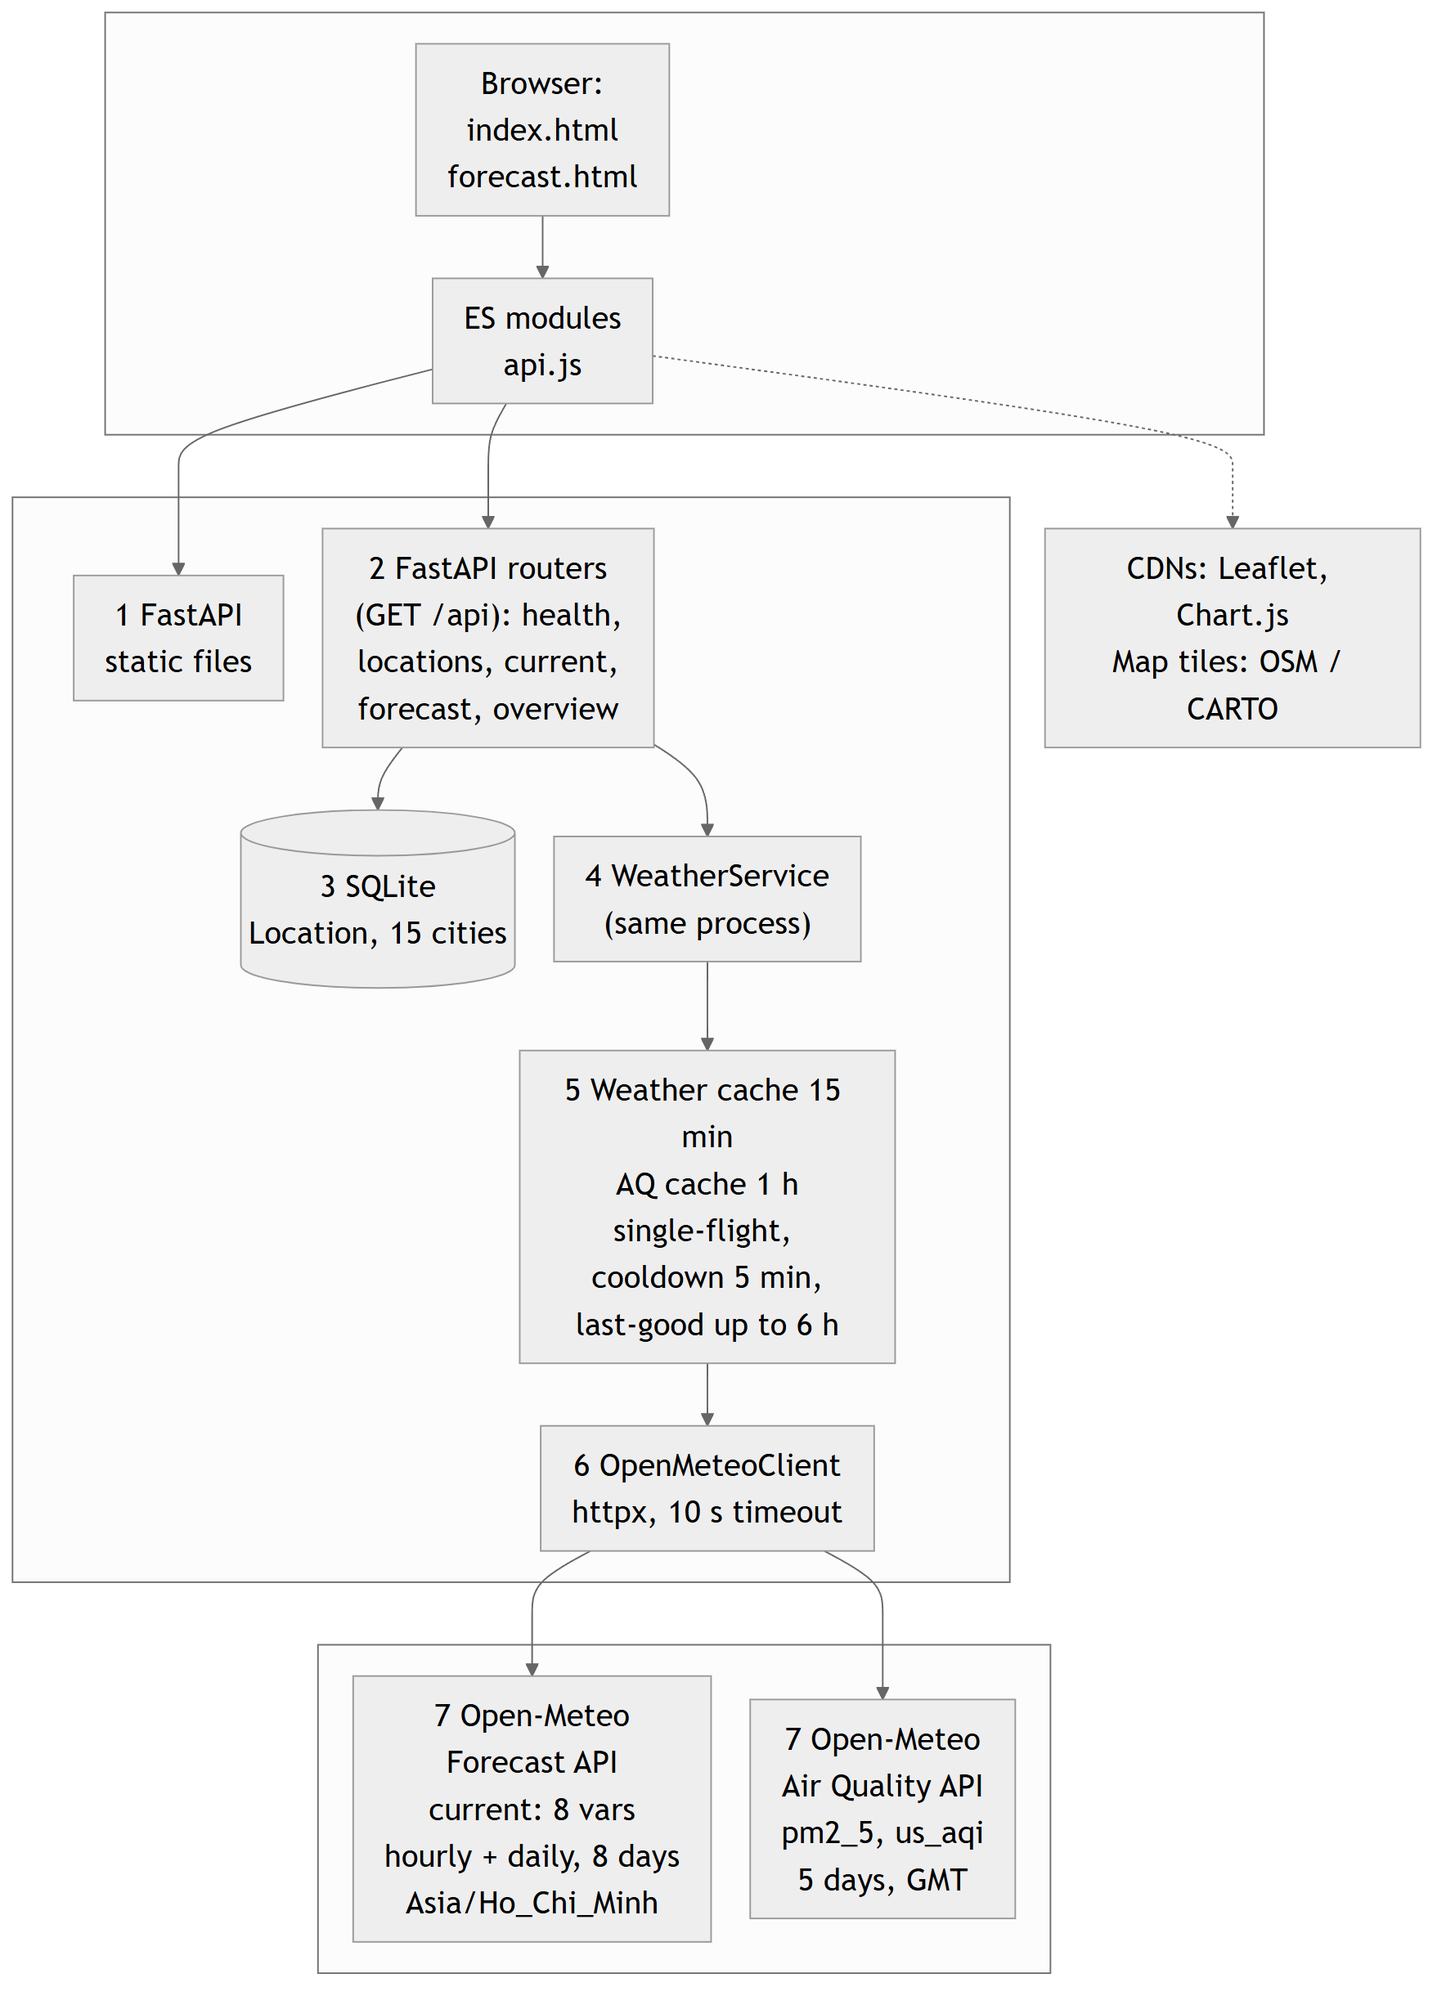
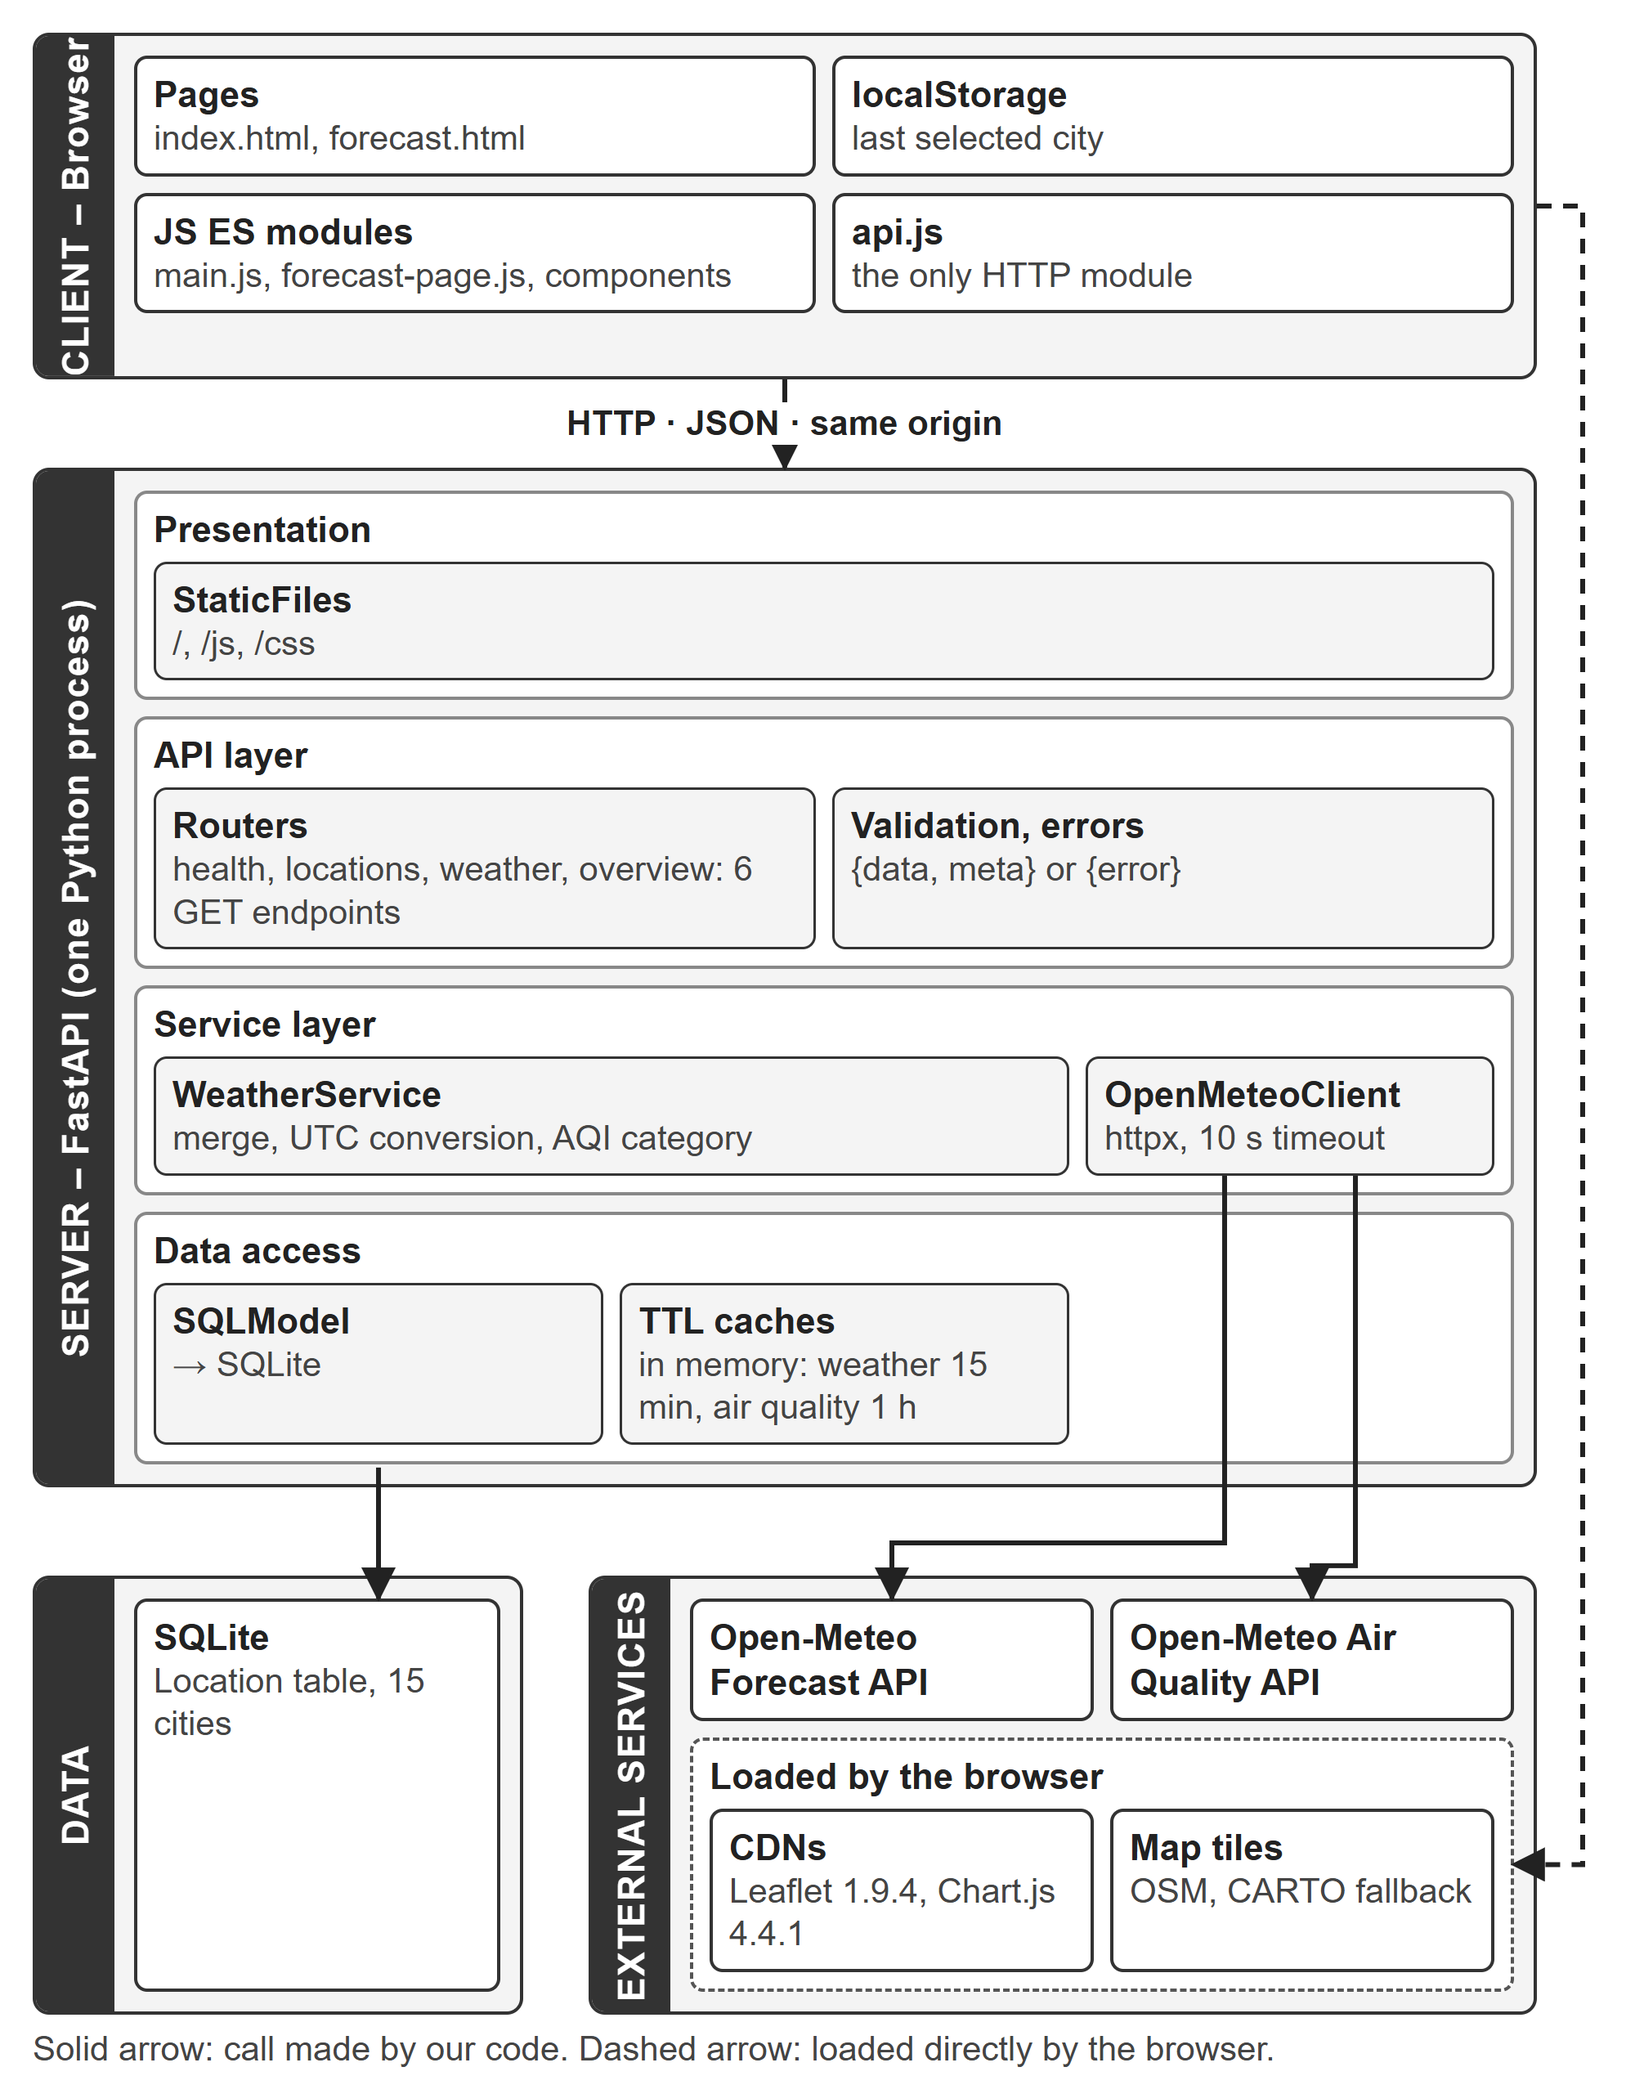
Refactor code structure for improved readability and maintainability

Changed region(s): [[0.0, 0.0, 0.9955, 0.9918], [0.871, 0.062, 0.9644, 0.186]]

diff --git a/environmental-system/docs/diagrams/system-architecture.html b/environmental-system/docs/diagrams/system-architecture.html
@@ -1,0 +1,157 @@
+<!DOCTYPE html>
+<!-- Layered architecture for report section 2.3 (Figure 3a).
+     Render: chrome --headless=new --screenshot=docs/images/system-architecture.png --window-size=1000,<height> --force-device-scale-factor=2 --hide-scrollbars file:///.../system-architecture.html
+     The page is 1000 CSS px wide and every text is >= 21 px, so it prints at >= 10 pt on a 16 cm wide figure.
+     Arrows are drawn by the script at the end from element positions. -->
+<html lang="en">
+<head>
+<meta charset="utf-8">
+<title>System architecture</title>
+<style>
+  * { box-sizing: border-box; }
+  body { margin: 0; width: 1000px; background: #fff; color: #222; font: 22px/1.25 Arial, Helvetica, sans-serif; position: relative; }
+  #fig { padding: 20px 60px 8px 20px; position: relative; }
+  .band { display: flex; border: 2px solid #333; border-radius: 10px; background: #f4f4f4; overflow: hidden; }
+  .strip { flex: 0 0 48px; background: #333; color: #fff; font-weight: bold; font-size: 22px; letter-spacing: 1px;
+           writing-mode: vertical-rl; transform: rotate(180deg); text-align: center; display: flex; align-items: center; justify-content: center; white-space: nowrap; }
+  .body { flex: 1; padding: 12px; display: flex; flex-direction: column; gap: 10px; min-width: 0; }
+  .row { display: flex; gap: 10px; }
+  .box { flex: 1; border: 2px solid #333; border-radius: 8px; background: #fff; padding: 8px 10px; min-width: 0; }
+  .box b { display: block; font-size: 22px; }
+  .box span { display: block; font-size: 21px; color: #444; }
+  .layer { border: 2px solid #888; border-radius: 8px; background: #fff; padding: 8px 10px 10px; }
+  .layer > h3 { margin: 0 0 6px; font-size: 22px; }
+  .layer .box { background: #f4f4f4; border-width: 1.5px; }
+  .group { border: 2px dashed #555; border-radius: 8px; background: #fff; padding: 8px 10px 10px; }
+  .group > h3 { margin: 0 0 6px; font-size: 22px; }
+  .gap { height: 54px; }
+  .cols { display: flex; gap: 40px; align-items: stretch; }
+  #data { flex: 0 0 300px; }
+  #ext { flex: 1; min-width: 0; }
+  #legend { margin-top: 8px; font-size: 21px; color: #444; }
+  svg#arrows { position: absolute; left: 0; top: 0; pointer-events: none; overflow: visible; }
+  .lbl { position: absolute; background: #fff; font-size: 21px; padding: 0 8px; font-weight: bold; color: #222; }
+</style>
+</head>
+<body>
+<div id="fig">
+
+  <div class="band" id="client">
+    <div class="strip">CLIENT – Browser</div>
+    <div class="body">
+      <div class="row">
+        <div class="box"><b>Pages</b><span>index.html, forecast.html</span></div>
+        <div class="box"><b>localStorage</b><span>last selected city</span></div>
+      </div>
+      <div class="row">
+        <div class="box"><b>JS ES modules</b><span>main.js, forecast-page.js, components</span></div>
+        <div class="box" id="apijs"><b>api.js</b><span>the only HTTP module</span></div>
+      </div>
+    </div>
+  </div>
+
+  <div class="gap" id="gap1"></div>
+
+  <div class="band" id="server">
+    <div class="strip">SERVER – FastAPI (one Python process)</div>
+    <div class="body">
+      <div class="layer" id="l-pres">
+        <h3>Presentation</h3>
+        <div class="row"><div class="box" id="static"><b>StaticFiles</b><span>/, /js, /css</span></div></div>
+      </div>
+      <div class="layer" id="l-api">
+        <h3>API layer</h3>
+        <div class="row">
+          <div class="box" id="routers"><b>Routers</b><span>health, locations, weather, overview: 6 GET endpoints</span></div>
+          <div class="box"><b>Validation, errors</b><span>{data, meta} or {error}</span></div>
+        </div>
+      </div>
+      <div class="layer" id="l-svc">
+        <h3>Service layer</h3>
+        <div class="row">
+          <div class="box" id="wsvc"><b>WeatherService</b><span>merge, UTC conversion, AQI category</span></div>
+          <div class="box" id="omc" style="flex:0 0 250px"><b>OpenMeteoClient</b><span>httpx, 10 s timeout</span></div>
+        </div>
+      </div>
+      <div class="layer" id="l-data">
+        <h3>Data access</h3>
+        <div class="row">
+          <div class="box" id="sqlmodel"><b>SQLModel</b><span>→ SQLite</span></div>
+          <div class="box" id="caches"><b>TTL caches</b><span>in memory: weather 15 min, air quality 1 h</span></div>
+          <div style="flex:0 0 250px"></div>
+        </div>
+      </div>
+    </div>
+  </div>
+
+  <div class="gap" id="gap2"></div>
+
+  <div class="cols">
+    <div class="band" id="data">
+      <div class="strip">DATA</div>
+      <div class="body">
+        <div class="box" id="sqlite"><b>SQLite</b><span>Location table, 15 cities</span></div>
+      </div>
+    </div>
+    <div class="band" id="ext">
+      <div class="strip">EXTERNAL SERVICES</div>
+      <div class="body">
+        <div class="row">
+          <div class="box" id="fc"><b>Open-Meteo Forecast API</b></div>
+          <div class="box" id="aq"><b>Open-Meteo Air Quality API</b></div>
+        </div>
+        <div class="group" id="cdn">
+          <h3>Loaded by the browser</h3>
+          <div class="row">
+            <div class="box"><b>CDNs</b><span>Leaflet 1.9.4, Chart.js 4.4.1</span></div>
+            <div class="box"><b>Map tiles</b><span>OSM, CARTO fallback</span></div>
+          </div>
+        </div>
+      </div>
+    </div>
+  </div>
+
+  <div id="legend">Solid arrow: call made by our code. Dashed arrow: loaded directly by the browser.</div>
+</div>
+
+<svg id="arrows" xmlns="http://www.w3.org/2000/svg">
+  <defs>
+    <marker id="ah" viewBox="0 0 10 10" refX="9" refY="5" markerWidth="7" markerHeight="7" orient="auto-start-reverse"><path d="M0,0 L10,5 L0,10 z" fill="#222"/></marker>
+  </defs>
+</svg>
+
+<script>
+  const $ = id => document.getElementById(id);
+  const rect = id => { const r = $(id).getBoundingClientRect(); return { l: r.left, r: r.right, t: r.top + scrollY, b: r.bottom + scrollY, cx: (r.left + r.right) / 2, cy: (r.top + r.bottom) / 2 + scrollY }; };
+  const svg = $("arrows");
+  function path(d, dashed) {
+    const p = document.createElementNS("http://www.w3.org/2000/svg", "path");
+    p.setAttribute("d", d); p.setAttribute("fill", "none"); p.setAttribute("stroke", "#222"); p.setAttribute("stroke-width", "3");
+    if (dashed) p.setAttribute("stroke-dasharray", "9 7");
+    p.setAttribute("marker-end", "url(#ah)");
+    svg.appendChild(p);
+  }
+  function label(text, x, y) {
+    const d = document.createElement("div"); d.className = "lbl"; d.textContent = text;
+    document.body.appendChild(d);
+    d.style.left = (x - d.offsetWidth / 2) + "px"; d.style.top = (y - d.offsetHeight / 2) + "px";
+  }
+  const c = rect("client"), s = rect("server"), g1 = rect("gap1");
+  // client -> server
+  path(`M${c.cx},${c.b} L${c.cx},${s.t}`);
+  label("HTTP · JSON · same origin", c.cx, g1.cy);
+  // SQLModel -> SQLite (straight down)
+  const sm = rect("sqlmodel"), sq = rect("sqlite");
+  path(`M${sm.cx},${sm.b + 14} L${sm.cx},${sq.t}`);
+  // OpenMeteoClient -> forecast / air quality APIs
+  const om = rect("omc"), fc = rect("fc"), aq = rect("aq"), mid = s.b + (sq.t - s.b) / 2;
+  const x1 = om.cx - 40, x2 = om.cx + 40;
+  path(`M${x1},${om.b} L${x1},${mid} L${fc.cx},${mid} L${fc.cx},${fc.t}`);
+  path(`M${x2},${om.b} L${x2},${mid + 14} L${aq.cx},${mid + 14} L${aq.cx},${aq.t}`);
+  // browser -> CDNs and tiles (dashed, along the right margin)
+  const cl = $("client").getBoundingClientRect(), cd = rect("cdn"), lane = cl.right + 28;
+  path(`M${cl.right},${c.cy} L${lane},${c.cy} L${lane},${cd.cy} L${cd.r},${cd.cy}`, true);
+  document.title = String(Math.ceil(document.documentElement.scrollHeight));
+</script>
+</body>
+</html>

diff --git a/environmental-system/docs/Architecture.md b/environmental-system/docs/Architecture.md
@@ -1,10 +1,29 @@
 # 2.3 System architecture
 
-**Figure caption:** System architecture of the Weather & AQI dashboard (client, FastAPI server, third-party data source).
+**Figure 3a caption:** Layered architecture of the Weather & AQI dashboard (client, FastAPI server, data and external services).
 
 ![System architecture](images/system-architecture.png)
 
-Source: [`diagrams/system-architecture.mmd`](diagrams/system-architecture.mmd) (Mermaid). To re-render, paste it into <https://mermaid.live> or run `npx -y @mermaid-js/mermaid-cli@11.4.2 -i docs/diagrams/system-architecture.mmd -o docs/images/system-architecture.png -w 900 -s 2 -b white`. The figure is a vertical (top-to-bottom) flowchart so that it stays readable at A4 text width; the theme and font size are set inside the `.mmd` file.
+**Figure 3b caption:** Sequence of `GET /api/locations/{id}/current`, including the caches, the air-quality cooldown and the last-good fallback.
+
+![Request sequence](images/request-sequence.png)
+
+Sources: [`diagrams/system-architecture.html`](diagrams/system-architecture.html) (hand-made HTML/CSS, Figure 3a) and [`diagrams/request-sequence.mmd`](diagrams/request-sequence.mmd) (Mermaid, Figure 3b).
+
+To re-render, from `environmental-system`:
+- Figure 3a: `chrome --headless=new --screenshot=docs/images/system-architecture.png --window-size=1000,1275 --force-device-scale-factor=2 --hide-scrollbars file:///<path>/docs/diagrams/system-architecture.html`
+- Figure 3b: `npx -y @mermaid-js/mermaid-cli@11.4.2 -i docs/diagrams/request-sequence.mmd -o docs/images/request-sequence.png -w 1600 -s 2 -b white`
+
+## Layers (Figure 3a)
+
+- **Client (browser):** `index.html` and `forecast.html`, JavaScript ES modules (`main.js`, `forecast-page.js` and the components), `api.js` as the only HTTP module, and `localStorage` for the last selected city.
+- **Server (FastAPI, one Python process):**
+  - Presentation: `StaticFiles` serves `/`, `/js` and `/css`.
+  - API layer: routers (health, locations, weather, overview) with 6 GET endpoints, input validation and error handlers returning `{data, meta}` or `{error}`.
+  - Service layer: `WeatherService` (merge, UTC conversion, AQI category) and `OpenMeteoClient` (httpx, 10 s timeout).
+  - Data access: SQLModel on SQLite, and in-memory TTL caches (weather 15 minutes, air quality 1 hour).
+- **Data:** SQLite with the `Location` table (15 cities).
+- **External services:** Open-Meteo Forecast API and Air Quality API (called by `OpenMeteoClient`), and the CDNs (Leaflet 1.9.4, Chart.js 4.4.1) and map tiles (OpenStreetMap, CARTO fallback), which the browser loads directly.
 
 ## Client–server model
 
@@ -21,24 +40,22 @@ The application is a classic client–server web app deployed as **one service**
   - `OpenMeteoClient` (httpx, 10 s timeout) is the only component that talks to the outside world.
 - **Third-party data source: Open-Meteo.** No API key is needed. All weather and air-quality values come from Open-Meteo; the application does not measure or model anything itself. Its added value is aggregation, caching, normalisation (UTC datetimes, missing values kept as `null`), AQI classification and visualisation.
 
-## Request flow (numbers match the figure)
+## Request flow (Figure 3b)
 
-1. The browser loads `index.html` or `forecast.html` and the static assets from FastAPI. Leaflet, Chart.js and the map tiles (OpenStreetMap, with CARTO as fallback) come from public CDNs, not from the server.
-2. `api.js` calls an endpoint, for example `GET /api/locations/1/forecast?hours=168&days=7`.
-3. The router looks up the city in SQLite (`deps`); an unknown id returns `404 LOCATION_NOT_FOUND`.
-4. The router asks `WeatherService` for the data.
-5. `WeatherService` checks its caches. Weather: same city, less than 15 minutes old. Air quality: less than 1 hour old, cached separately, one upstream call at a time per location (single-flight). On a hit no call to Open-Meteo is made.
-6. On a miss, `WeatherService` calls `OpenMeteoClient` (httpx, 10 s timeout).
-7. The client sends HTTPS GET requests to Open-Meteo:
-   - **Forecast API, current conditions:** 8 variables. Used by `/current` and `/api/current`.
-   - **Forecast API, hourly and daily:** 16 variables over 8 days, requested in `Asia/Ho_Chi_Minh` so daily values are Vietnam calendar days. Used by `/forecast`.
-   - **Air Quality API:** `pm2_5` and `us_aqi` for 5 days, in GMT.
+The sequence is for `GET /api/locations/{id}/current`; `/forecast` follows the same steps with the forecast variables.
 
-After step 7 the service builds the response and the router returns the `{data, meta}` JSON envelope (or `{error: {code, message}}`); the frontend converts UTC to Vietnam time for display.
+1. The browser's `api.js` sends the request. The router looks up the location in SQLite through a dependency before the service is called; an unknown id returns `404 LOCATION_NOT_FOUND`.
+2. The router calls `WeatherService.current(location)`.
+3. Weather is looked up first. On a miss, `OpenMeteoClient` calls the Forecast API (current variables, `Asia/Ho_Chi_Minh`) and the result is stored for 15 minutes. If the forecast call fails, the API returns 502 or 503 and nothing is stored.
+4. Air quality is handled after weather, in the same request (the two steps run one after the other).
+   - Cache hit (1 hour): the cached data is used.
+   - Cooldown active (global, 5 minutes after a failure, or per location after a 4xx other than 429): no call is made and the last-good data (up to 6 hours old) is used, or empty AQI.
+   - Miss: the Air Quality API is called (`pm2_5`, `us_aqi`, 5 days, GMT). On success the data is stored for 1 hour. On HTTP 429, 5xx, a timeout or an unusable reply, nothing is cached, the cooldown starts and the last-good data is used.
+   - The last-good data and the cooldown are state of `WeatherService` itself, not entries of the TTL cache.
+   - A lock per location makes this single-flight: concurrent requests for the same location wait and reuse the cache.
+5. The service merges weather and air quality (local times converted to UTC with `utc_offset_seconds`, AQI joined by timestamp, AQI category added). The router returns `{data, meta}`, where `meta.cached` is true only when no call to Open-Meteo was made. The frontend converts UTC to Vietnam time for display.
 
-- Local times are converted to UTC with `utc_offset_seconds`, and air quality is joined to weather by timestamp.
-- If the air-quality call fails (HTTP 429, 5xx, timeout or an unusable reply), weather is still returned. A global cooldown of 5 minutes pauses all air-quality calls, and the last good AQI (up to 6 hours old) is served, or `null` AQI fields if there is none. A 4xx other than 429 backs off only that location.
-- If the forecast call fails, the API returns 502 or 503.
+Forecast variables: current conditions use 8 variables; hourly and daily data use 16 variables over 8 days (so daily values are Vietnam calendar days).
 
 ## Design notes and trade-offs
 

diff --git a/environmental-system/README.md b/environmental-system/README.md
@@ -115,9 +115,13 @@ environmental-system/
 
 ## Architecture
 
-![System Architecture and Request Flow](docs/images/system-architecture.png)
+![Layered system architecture](docs/images/system-architecture.png)
 
-_Figure 1. System Architecture and Request Flow._
+_Figure 1. Layered system architecture._
+
+![Request sequence for GET /api/locations/{id}/current](docs/images/request-sequence.png)
+
+_Figure 2. Request sequence for the current-weather endpoint._
 
 The system follows a client-server architecture. The frontend,
 running in the user's web browser, communicates with the FastAPI
